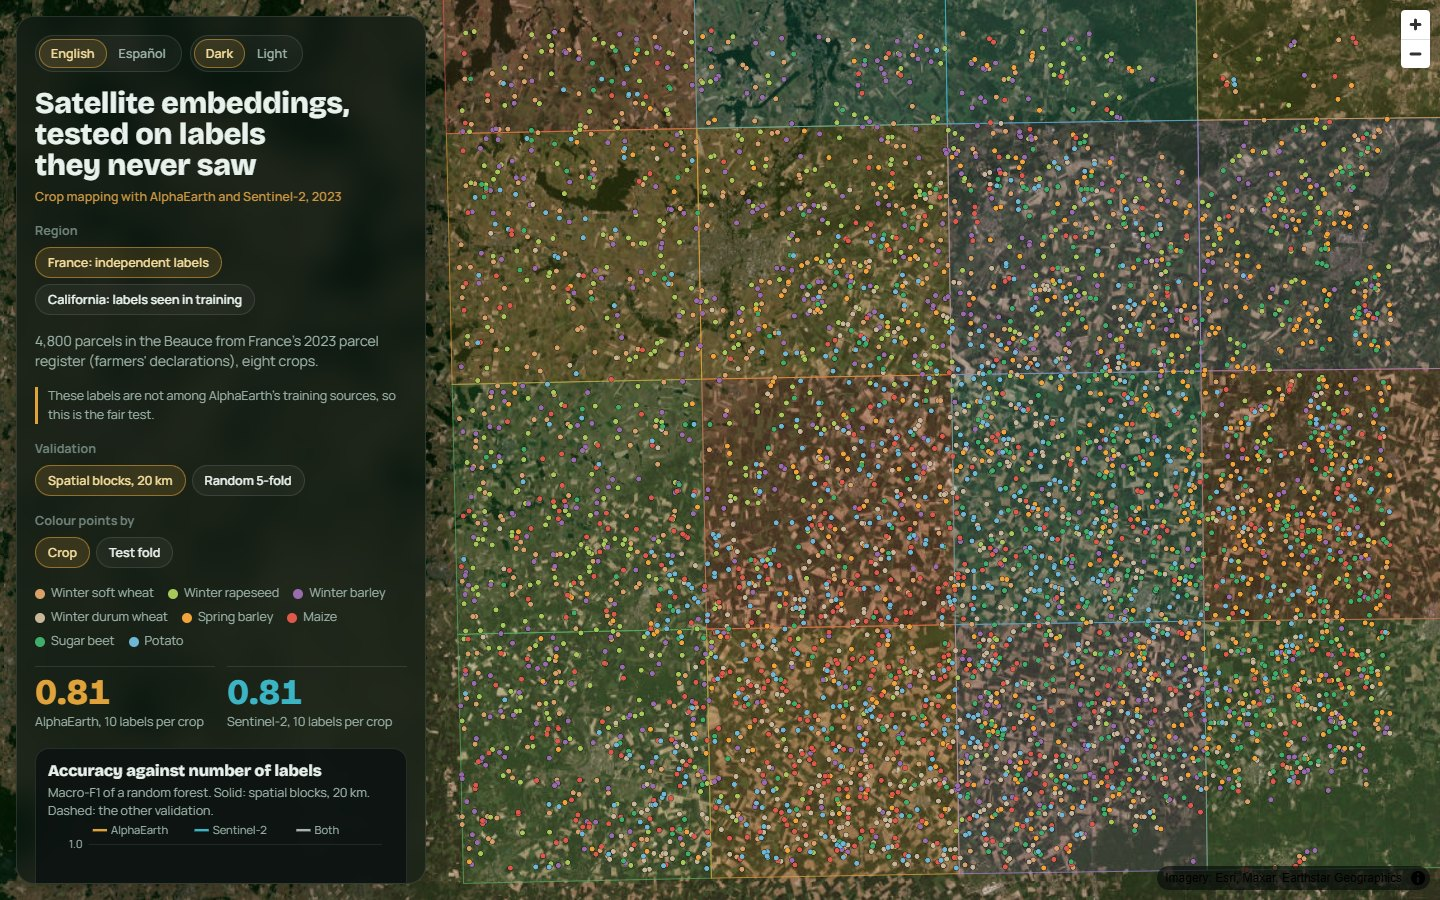
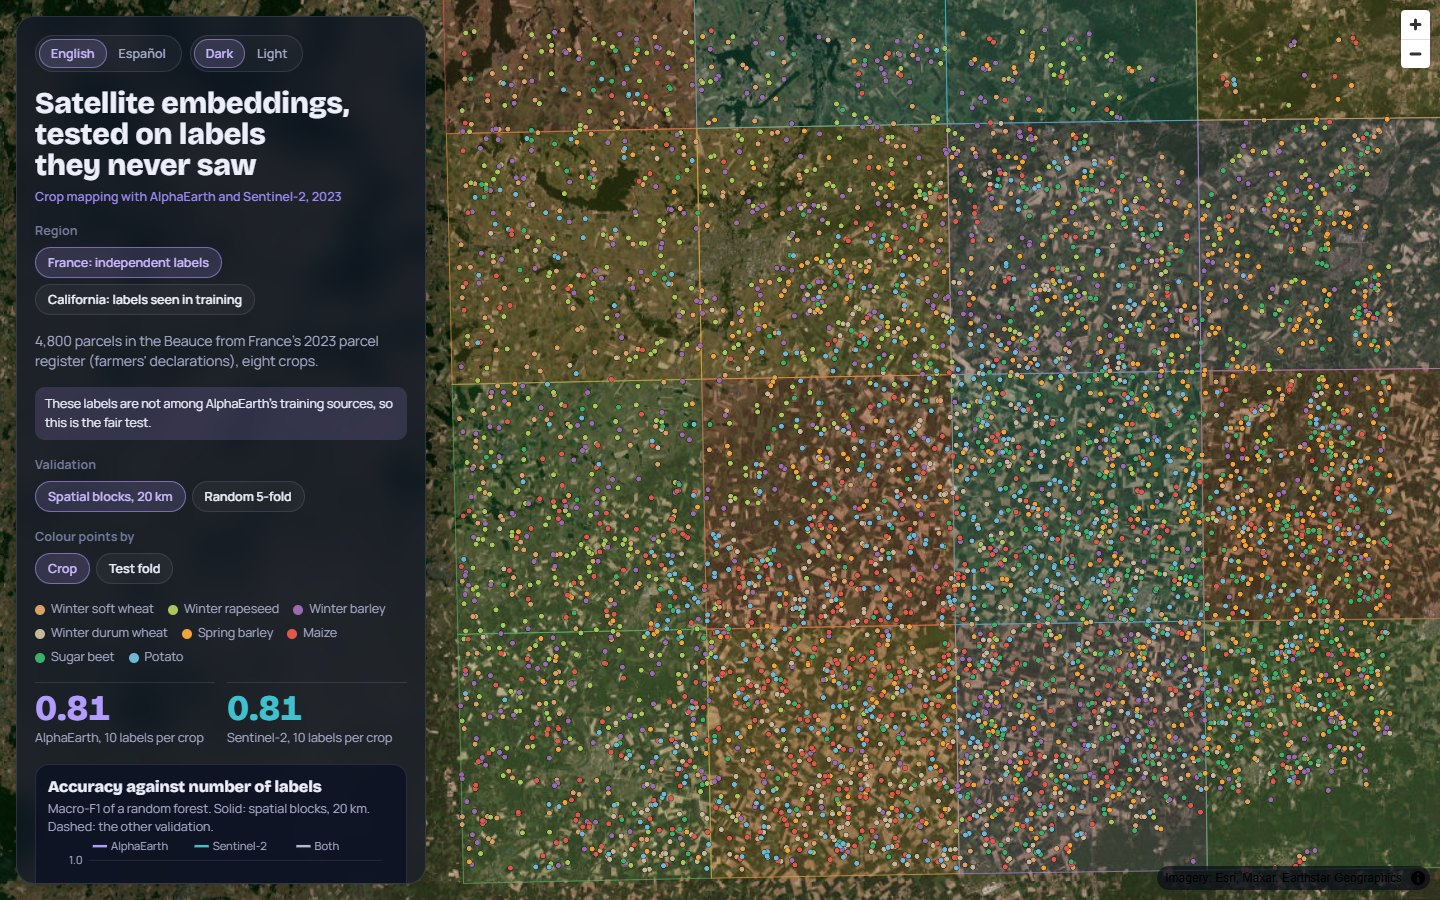
Own colour palette: slate blue with violet

diff --git a/docs/index.html b/docs/index.html
@@ -11,19 +11,19 @@
 <script src="https://unpkg.com/maplibre-gl@4.7.1/dist/maplibre-gl.js"></script>
 <style>
 :root{
-  --bg:#0a100e; --glass:rgba(12,21,18,.7); --glass-strong:rgba(10,18,16,.86); --line:rgba(206,232,220,.12);
-  --ink:#e8f1ec; --muted:#9bb2a8; --faint:#6d8379; --gold1:#f4dc9c; --gold2:#c99440;
-  --emb:#e0a23a; --s2:#3bb4c4; --both:#a7b4ad;
-  --chip:rgba(255,255,255,.04); --grid:rgba(206,232,220,.10); --shadow:0 18px 50px rgba(0,0,0,.38);
-  --on:rgba(224,162,58,.14); --on-line:rgba(224,162,58,.55); --attrib:rgba(8,14,12,.7);
+  --bg:#0c1120; --glass:rgba(16,22,40,.74); --glass-strong:rgba(13,18,34,.88); --line:rgba(200,206,240,.13);
+  --ink:#eceffa; --muted:#a3a9c7; --faint:#737a9c; --gold1:#c9b8ff; --gold2:#9c86f2;
+  --emb:#b39cff; --s2:#3fc1cf; --both:#b5bad3;
+  --chip:rgba(255,255,255,.04); --grid:rgba(200,206,240,.10); --shadow:0 18px 50px rgba(0,0,0,.4);
+  --on:rgba(179,156,255,.16); --on-line:rgba(179,156,255,.55); --attrib:rgba(10,14,26,.72);
   --display:"Bricolage Grotesque","Manrope",system-ui,sans-serif; --body:"Manrope",system-ui,sans-serif;
 }
 :root[data-theme="light"]{
-  --bg:#d5eadd; --glass:rgba(224,242,231,.76); --glass-strong:rgba(218,239,226,.9); --line:rgba(22,72,46,.16);
-  --ink:#0f2619; --muted:#3a5a48; --faint:#5d7c6b; --gold1:#b98320; --gold2:#7a500f;
-  --emb:#b06f08; --s2:#11768a; --both:#4f5d55;
-  --chip:rgba(255,255,255,.45); --grid:rgba(15,38,25,.13); --shadow:0 18px 50px rgba(20,60,40,.2);
-  --on:rgba(176,111,8,.14); --on-line:rgba(176,111,8,.55); --attrib:rgba(224,242,231,.82);
+  --bg:#e4e3f4; --glass:rgba(236,235,250,.78); --glass-strong:rgba(230,229,248,.9); --line:rgba(40,36,90,.15);
+  --ink:#16173a; --muted:#45486e; --faint:#666a90; --gold1:#5b3fc4; --gold2:#4a32a6;
+  --emb:#6a4fd6; --s2:#0f7f8c; --both:#565a78;
+  --chip:rgba(255,255,255,.5); --grid:rgba(22,23,58,.12); --shadow:0 18px 50px rgba(40,36,90,.18);
+  --on:rgba(106,79,214,.13); --on-line:rgba(106,79,214,.5); --attrib:rgba(236,235,250,.85);
 }
 *{box-sizing:border-box}
 html,body{margin:0;height:100%;background:var(--bg);color:var(--ink);font-family:var(--body);font-size:14px;line-height:1.45}
